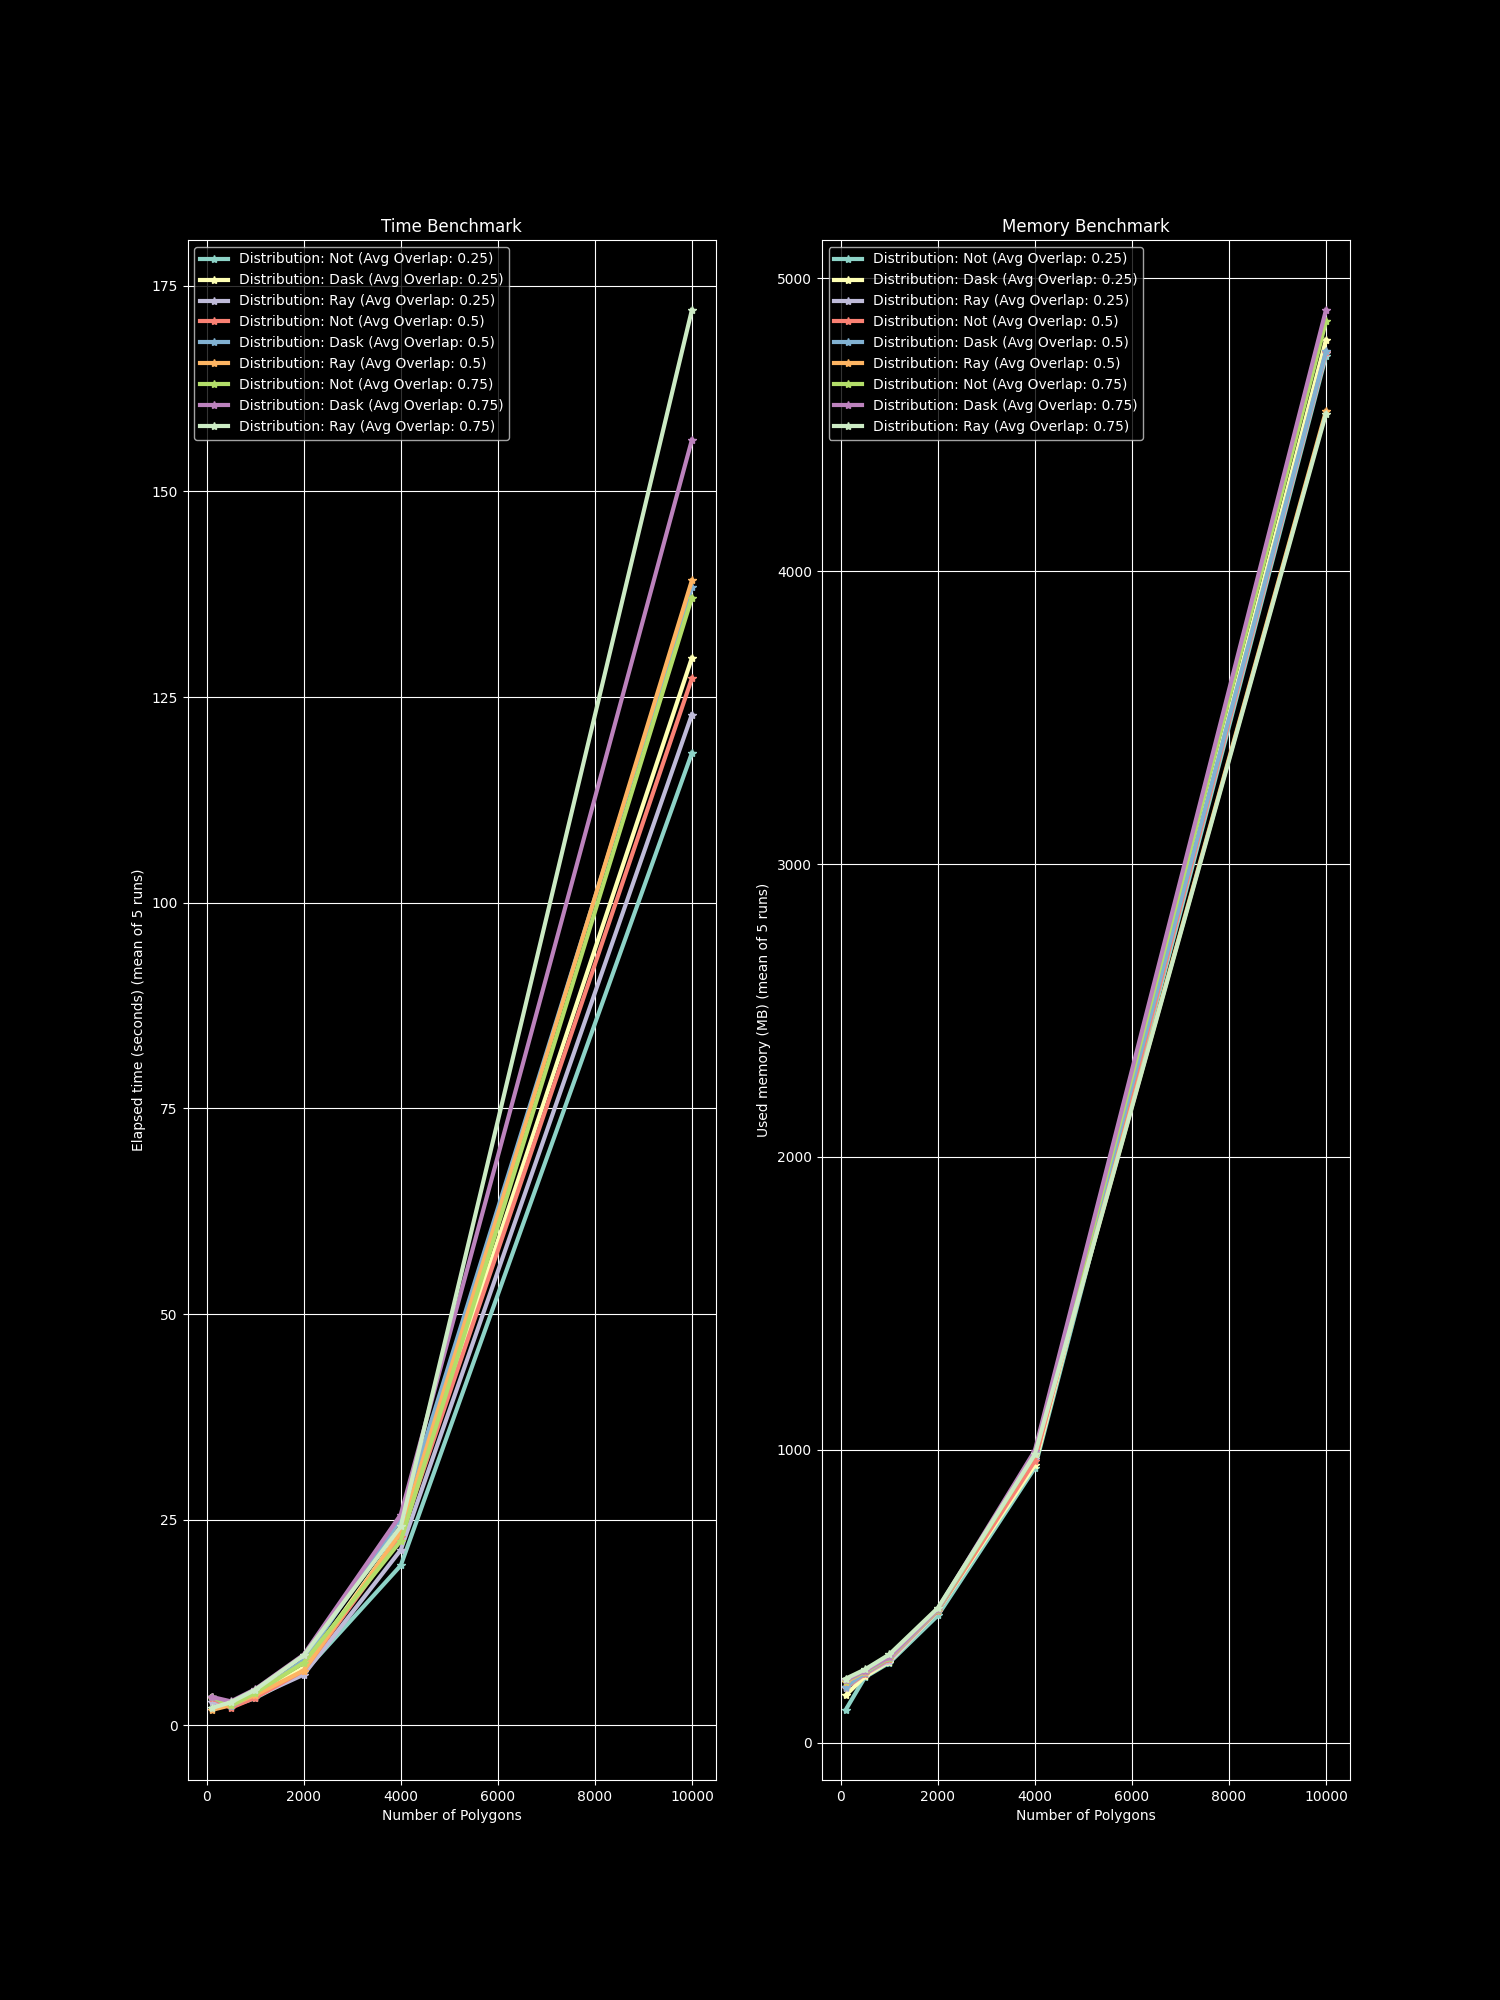
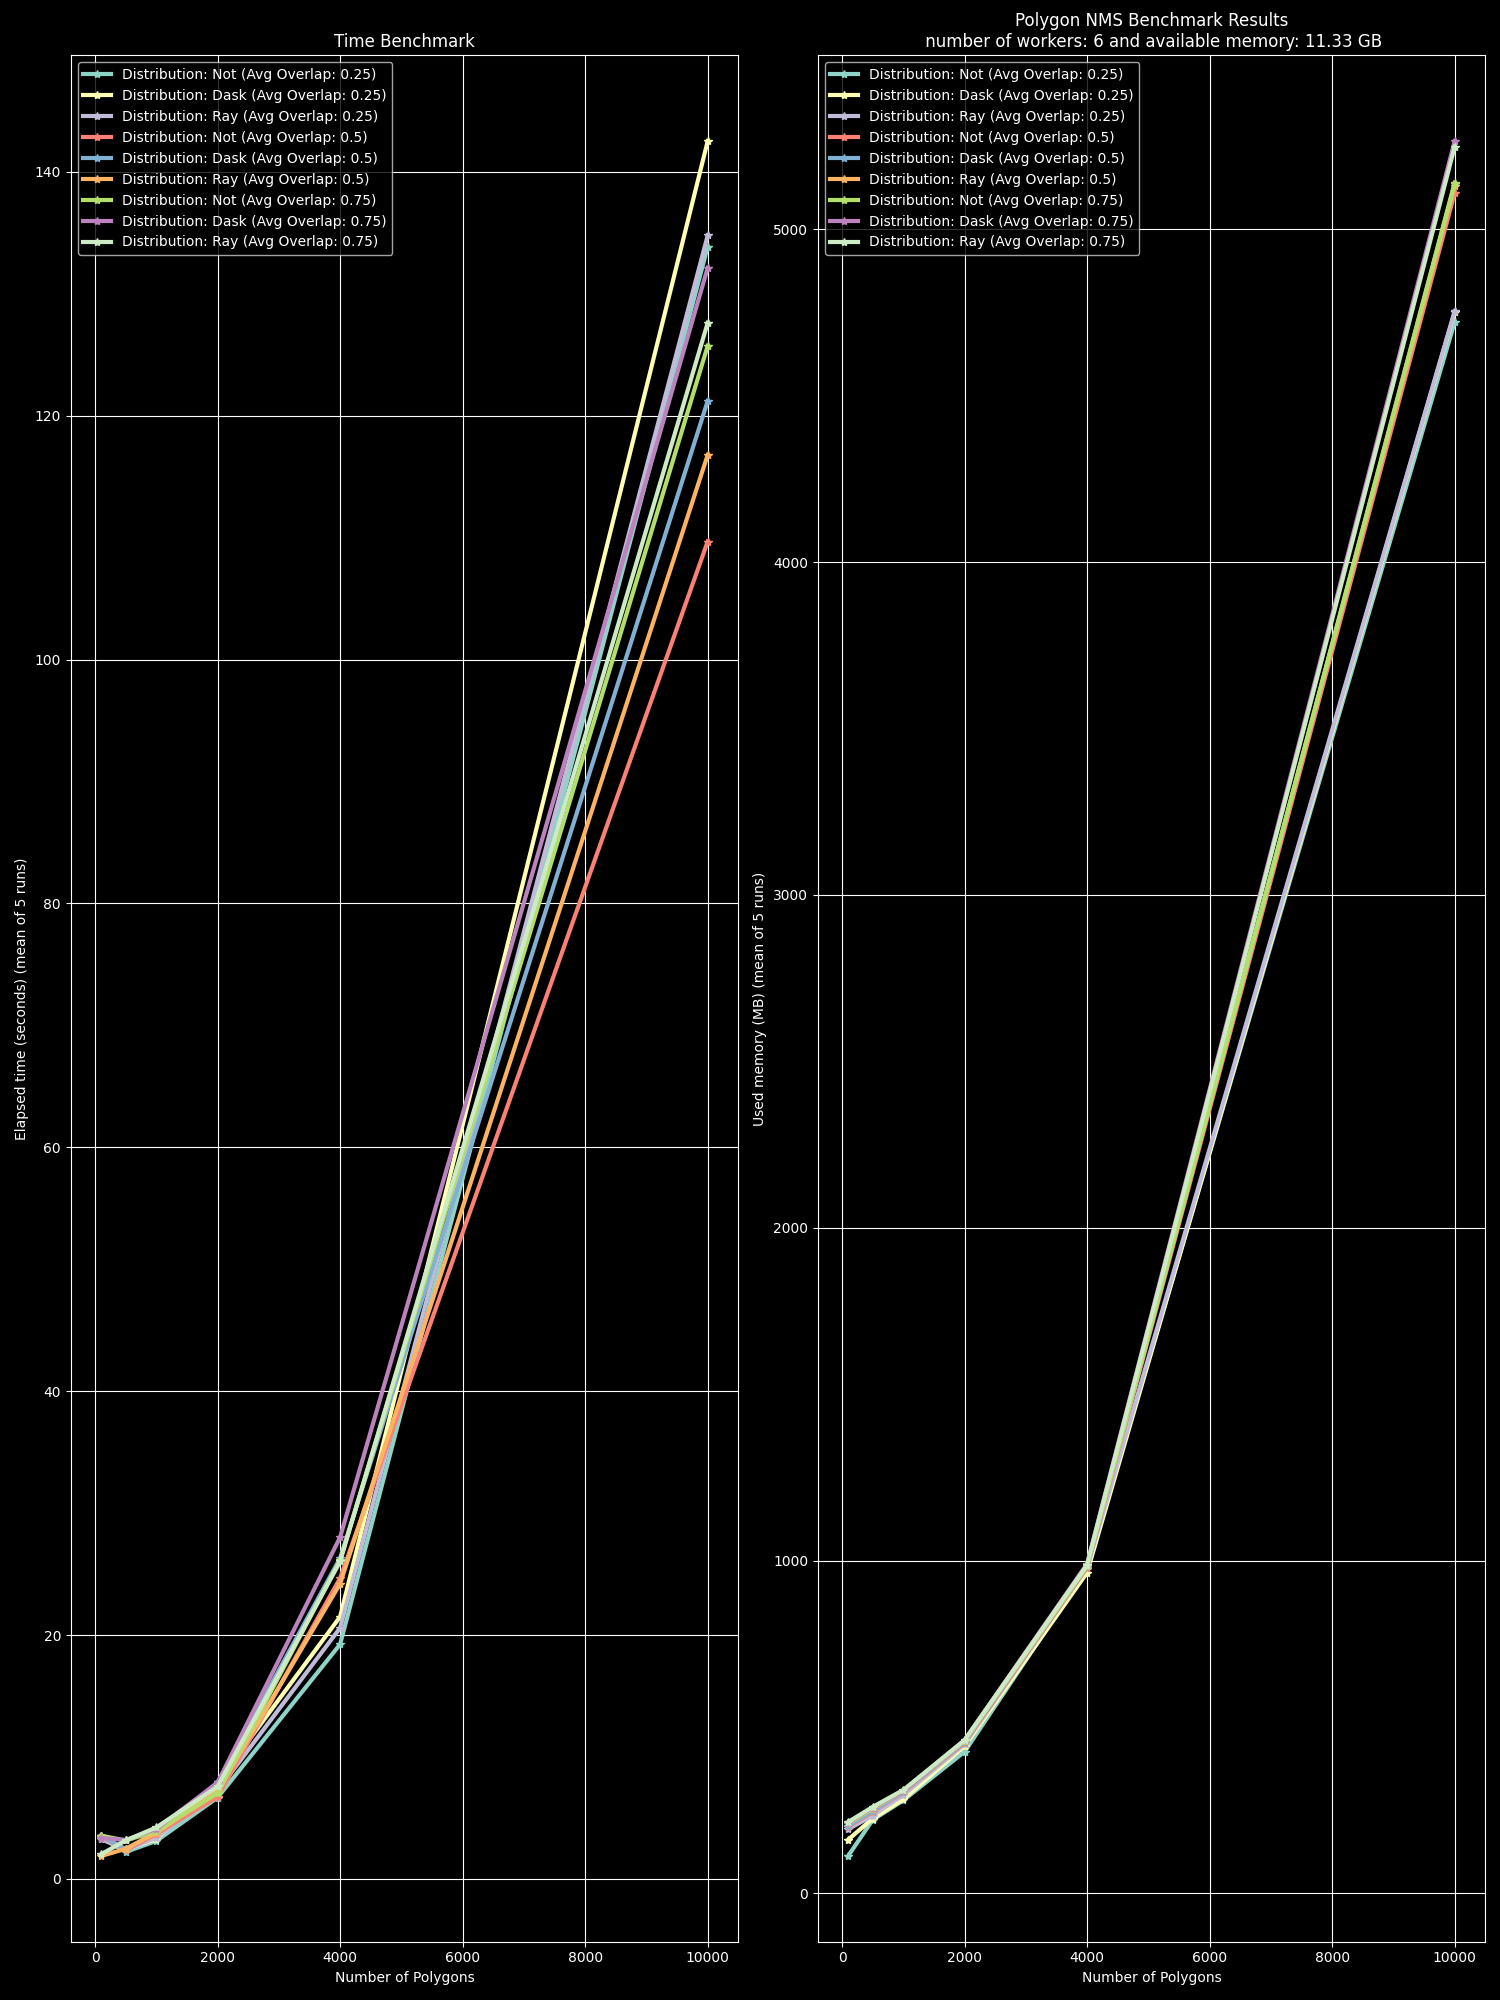
build: first release test 0.1.1

diff --git a/benchmark.py b/benchmark.py
@@ -36,7 +36,12 @@ def generate_polygons(num_polygons: int, avg_overlap: float, max_points: int = 6
     return polygons
 
 
-def benchmark_nms(nms_methods: List[str], save_dir: str = "./", num_workers: int = 4):
+def benchmark_nms(
+    nms_methods: List[str],
+    save_dir: str = "./",
+    num_workers: int = 4,
+    memory_available: float = 1.0,
+):
     num_polygons_list = [100, 500, 1000, 2000, 4000, 10000]  # , 40000]
     avg_overlap_list = [0.25, 0.5, 0.75]
 
@@ -120,7 +125,7 @@ def benchmark_nms(nms_methods: List[str], save_dir: str = "./", num_workers: int
     # Plots
     mpl.rcParams["lines.linewidth"] = 3
     plt.style.use("dark_background")
-    fig, axis = plt.subplots(1, 2, figsize=(15, 20))
+    fig, axis = plt.subplots(1, 2, figsize=(20, 10))
 
     # Plot time results
     for key, values in time_results.items():
@@ -153,8 +158,11 @@ def benchmark_nms(nms_methods: List[str], save_dir: str = "./", num_workers: int
     axis[1].set_title("Memory Benchmark")
 
     # Save plots
-    plt.title("Polygon NMS Benchmark Results")
     plt.tight_layout()
+    plt.title(
+        f"Polygon NMS Benchmark Results\n "
+        f"number of workers: {num_workers} and available memory: {memory_available} GB"
+    )
     save_path = os.path.join(save_dir, "benchmark_results.png")
     print(f"Saving plots to {save_path} ...")
     plt.savefig(save_path)
@@ -164,7 +172,7 @@ if __name__ == "__main__":
     # Parse arguments, get the save directory
     parser = argparse.ArgumentParser()
     parser.add_argument(
-        "--save_dir", type=str, default="./", help="Directory to save the results"
+        "--save_dir", type=str, default="./assets", help="Directory to save the results"
     )
     args = parser.parse_args()
 
@@ -181,5 +189,8 @@ if __name__ == "__main__":
         f"Benchmarking NMS methods with distributed on {num_cpus} number of workers..."
     )
     benchmark_nms(
-        nms_methods=["Not", "Dask", "Ray"], save_dir=args.save_dir, num_workers=num_cpus
+        nms_methods=["Not", "Dask", "Ray"],
+        save_dir=args.save_dir,
+        num_workers=num_cpus,
+        memory_available=round(avail_mem, 2),
     )
